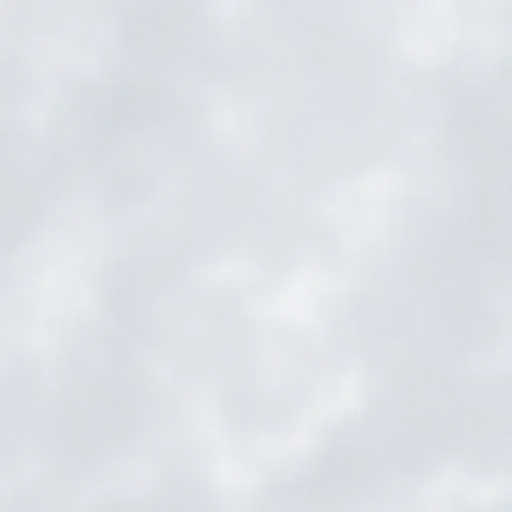
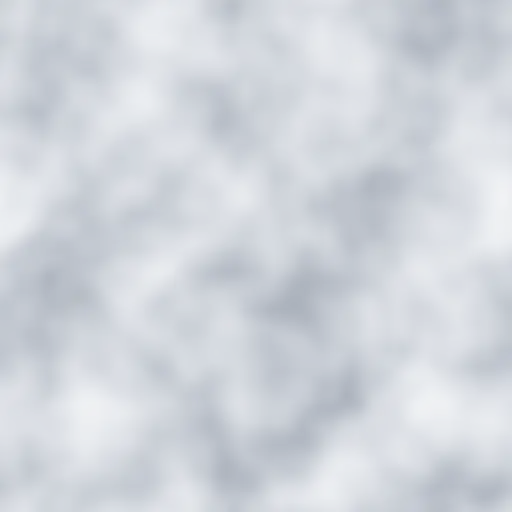
Туман: в светлой теме тот же клубящийся рисунок, что в тёмной

diff --git a/DESIGN.md b/DESIGN.md
@@ -81,7 +81,7 @@ Nunito (`@fontsource/nunito`). Заголовки 900, подзаголовки 
 - **Дорожка пути**: места (узлы, сундуки, «+») — столбиком по центру с шагом 108 (у текущего — 160, сверху место под «НАЧАТЬ»), со сдвигом вбок по волне 0 → 44 → 70 → 44 → 0 → −44 → −70 → −44 (в чётных разделах — зеркально). Под местами — широкая мягкая тропинка 30 px с круглыми концами, плавные изгибы (выход и вход вертикально): до мест, куда путь дошёл, — цвет колоды 35%, дальше — `--c-road` 70%. На свободной стороне волны — маскот 96 у 3-го видимого места и мерцающие искорки (четырёхлучевые звёздочки 20 и 12 `--c-xp`, масштаб и поворот, 2,6 с).
 - **Окно пути** (чтобы при сотнях уроков путь занимал 1–2 экрана): пройденные колоды выше текущей — «Свёрнутый раздел»; в разделе с текущим узлом над ним — не больше 6 мест, выше — текстовая кнопка «Показать ещё N пройденных уроков»; под текущим — 2 места ясно и ещё 2 под туманом, дальше путь не рисуется. Развёрнутый раздел — текстовая кнопка «Свернуть раздел» под ним.
 - **Свёрнутый раздел**: плитка `--c-bg`, рамка 2 px и нижняя тень 4 px `--c-border`, скругление 16, отступы 12/16; слева круг 44 цвета колоды (тень 3 px её цвета-тени) с галочкой; название с эмодзи 17/800, строка 13/700 `--c-text-muted` «Раздел 1 · 12 уроков · 👑 4»; справа шеврон вниз 24 `--c-text-muted`. Нажатие — `press-3d`, разворачивает раздел.
-- **Туман пути** (образец — `references/туман-PvZ.jpg`, туман из Plants vs Zombies): мягкий серый клубящийся дым — крупные мягкие клубы (без мелких бугорков и бликов — иначе «пупырышки») и дымчатые разводы; свет мягкий, сверху; край неровный и плавно растворяется. Дым не стена, а лёгкая вуаль (решение владельца — «менее густой»): светлые клубы гуще, провалы прозрачнее; под дымом путь плавно уходит в цвет фона (градиент от прозрачного к `--c-bg` за 190 px) — первый урок под туманом угадывается, второй почти растворился, обрыва пути не видно. Без текста. Цвет — серый, как в образце: светлая тема — белёсо-серый (тень `#969EAA`, середина `#C6CCD5`, свет `#F8F9FB`; начало тумана у края гуще, чтобы не терялось на белом), тёмная — серый, светлее фона, но приглушённый (`#585E68`, `#848B95`, `#BEC3CA`). Это **готовые картинки** WebP (плитка 512 px: край 512×256, сплошной дым 512×512, струйки 512×220, для каждой темы), их один раз рисует программа `npm run fog` (`scripts/gen-fog.mjs`); в приложении нет живых фильтров, размытия и backdrop-filter. Плотный дым начинается у первого места под туманом (2 места под текущим) и тянется до самого низа списка (список не короче экрана), прокрутка в него упирается: можно долистать ~треть экрана, «резинки» внизу нет — обрыва не видно. Клубится медленно и едва заметно: основной слой едет вбок на одну плитку за 90 с, струйки — в другую сторону за 60 с и покачиваются на 8 px (7 с) — только transform. Прошёл урок — край плавно отступает вниз на новое место (сдвиг со старого места, 1,4 с, `cubic-bezier(0.22, 1, 0.36, 1)`). Касания проходят сквозь туман. При «Уменьшении движения» дым неподвижен и край встаёт сразу.
+- **Туман пути** (образец — `references/туман-PvZ.jpg`, туман из Plants vs Zombies): мягкий серый клубящийся дым — крупные мягкие клубы (без мелких бугорков и бликов — иначе «пупырышки») и дымчатые разводы; свет мягкий, сверху; край неровный и плавно растворяется. Дым не стена, а лёгкая вуаль (решение владельца — «менее густой»): светлые клубы гуще, провалы прозрачнее; под дымом путь плавно уходит в цвет фона (градиент от прозрачного к `--c-bg` за 190 px) — первый урок под туманом угадывается, второй почти растворился, обрыва пути не видно. Без текста. Цвет — серый, как в образце: светлая тема — серый на белом с тем же рисунком клубов, что в тёмной (тон обратный: густые клубы — серые `#969EAA`…`#C4CAD3`, редкие места — светлые `#F4F6F9` и прозрачные; иначе на белом дым сливается в ровную пелену), тёмная — серый, светлее фона, но приглушённый (`#585E68`, `#848B95`, `#BEC3CA`). Это **готовые картинки** WebP (плитка 512 px: край 512×256, сплошной дым 512×512, струйки 512×220, для каждой темы), их один раз рисует программа `npm run fog` (`scripts/gen-fog.mjs`); в приложении нет живых фильтров, размытия и backdrop-filter. Плотный дым начинается у первого места под туманом (2 места под текущим) и тянется до самого низа списка (список не короче экрана), прокрутка в него упирается: можно долистать ~треть экрана, «резинки» внизу нет — обрыва не видно. Клубится медленно и едва заметно: основной слой едет вбок на одну плитку за 90 с, струйки — в другую сторону за 60 с и покачиваются на 8 px (7 с) — только transform. Прошёл урок — край плавно отступает вниз на новое место (сдвиг со старого места, 1,4 с, `cubic-bezier(0.22, 1, 0.36, 1)`). Касания проходят сквозь туман. При «Уменьшении движения» дым неподвижен и край встаёт сразу.
 - **Место будущего урока** («+»): одно в конце раздела, круг 72 с пунктирной рамкой 3 px `--c-road`, фон `--c-bg`, плюс 30 `--c-text-muted`, нажатие `press-soft`; всплывашка «Новый урок» — «Добавь слова в «Фрукты» — каждые 5 слов становятся уроком» и основная «ДОБАВИТЬ СЛОВА» (открывает колоду). За ним — ближайший сундук-цель (закрытый).
 - **Счётчик кристаллов** (шапка «Пути», до полосы этапа 8): «Чип в шапке» — кристалл `--c-gem` и число; тап — всплывашка «Кристаллы: 19 💎» и за что даются.
 - **Раздел пути** (плашка колоды): карточка цвета колоды, скругление 16, нижняя тень 4 px её цвета-тени, отступы 16, между разделами 24. Слева: строка 13/900 заглавными «РАЗДЕЛ 1» и под ней название 20/900 с эмодзи — текст `--c-on-color`. Справа кнопка 44 (скругление 12, фон — цвет-тень колоды, книга 24 `--c-on-color`, `press-soft`) — открывает слова колоды.
